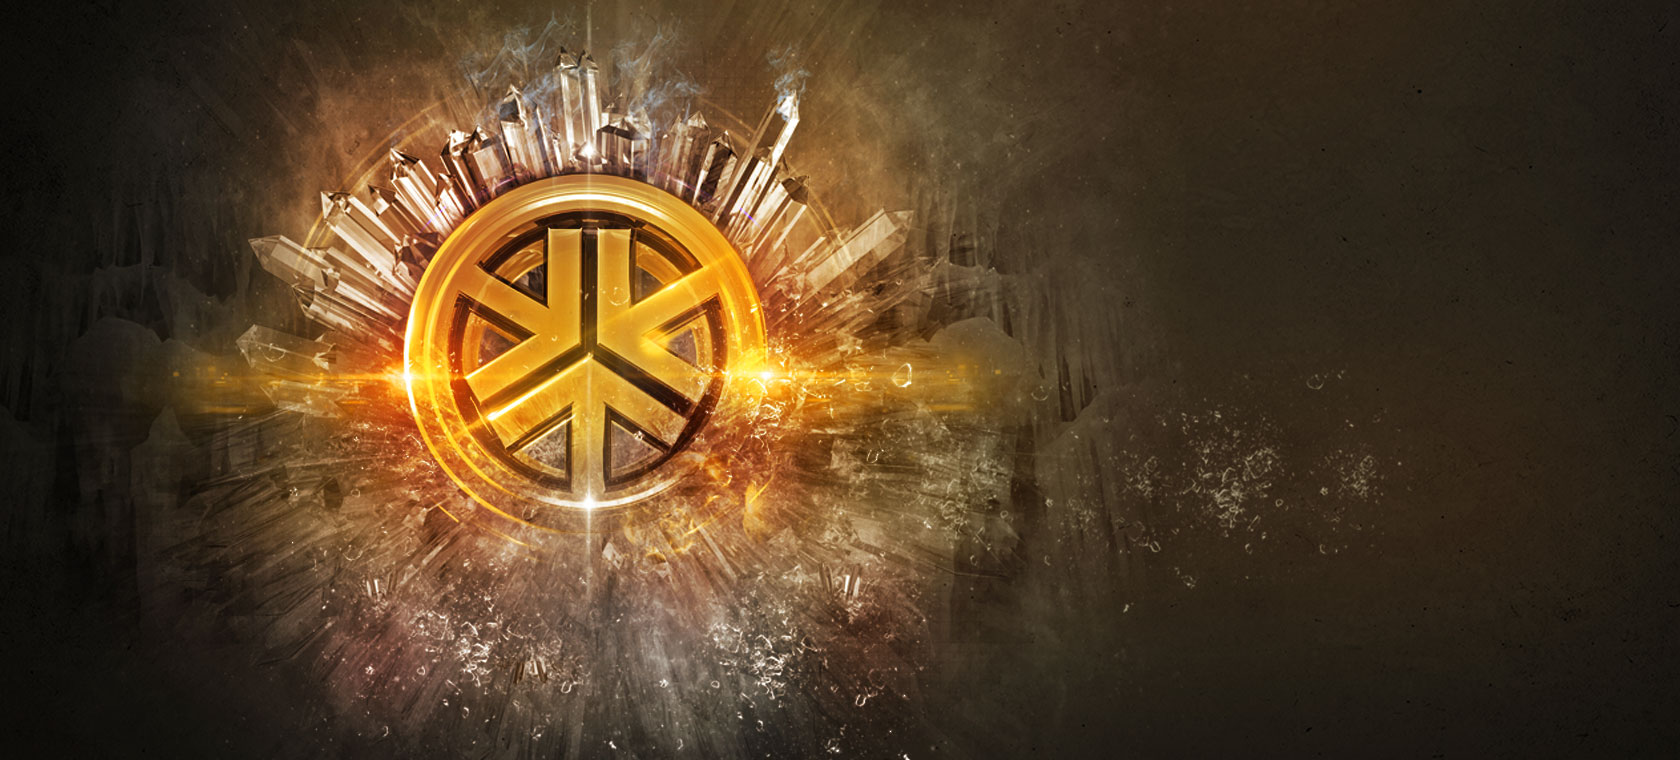
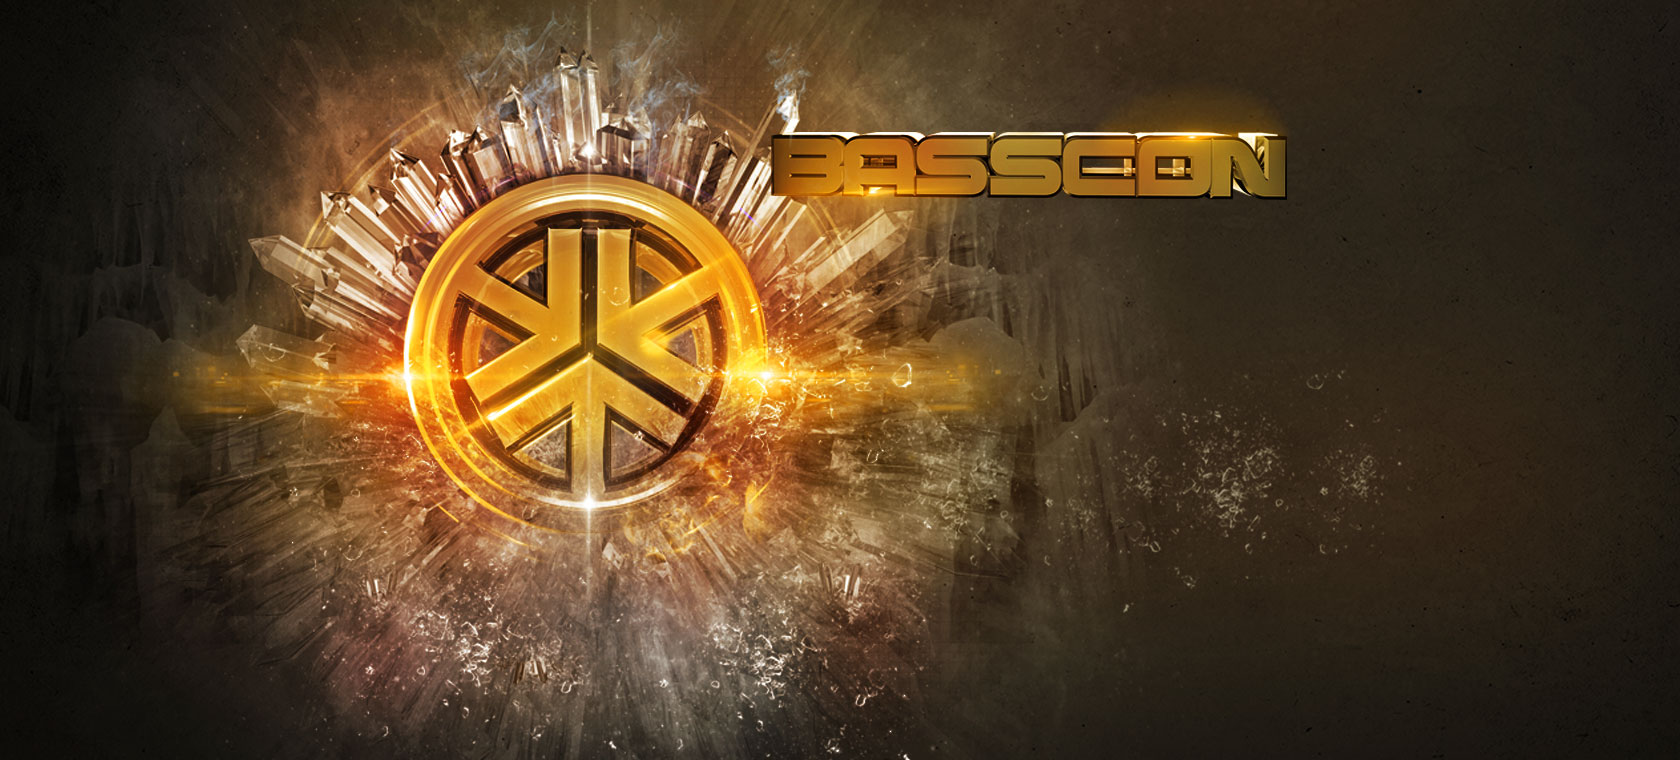
Old site placeholder

Changed region(s): [[0.4333, 0.1211, 0.7738, 0.3026]]

diff --git a/index.html b/index.html
@@ -1,33 +1,25 @@
-<!DOCTYPE html>
-<html>
-    <head>
-        <meta charset="utf-8">
-        <meta http-equiv="X-UA-Compatible" content="IE=edge">
-        <title>Basscon Massive</title>
-        <meta name="description" content="">
-        <meta name="viewport" content="width=device-width, initial-scale=1, maximum-scale=1">
-        <link rel="stylesheet" href="/css/main.min.css">
-    </head>
-    <body>
-    	<div id="splash">
-	    	<div id="right">
-	    		<a href="http://www.insomniac.com" target="_blank" id="insomniac"><img src="/images/insomniac.png" alt="Insomniac"/></a>
-	    		<span id="subtitle">Back to the Basics</span>
-		    	<h1 id="logo">Basscon</h1>
-		    	
-		    	
-		    	<iframe id="video" width="415" height="233" src="//www.youtube.com/embed/AX3GZ0CU5JM" frameborder="0" allowfullscreen></iframe>
-		    	
-		    	<div id="tickets" class="responsive-container">
-		    		<a href="" class="responsive-content">Purchase Tickets</a>
-		    	</div>
-	    	</div>
-    	</div>
-    
-		<script>
-			(function(i,s,o,g,r,a,m){i['GoogleAnalyticsObject']=r;i[r]=i[r]||function(){(i[r].q=i[r].q||[]).push(arguments)},i[r].l=1*new Date();a=s.createElement(o),m=s.getElementsByTagName(o)[0];a.async=1;a.src=g;m.parentNode.insertBefore(a,m)})(window,document,'script','//www.google-analytics.com/analytics.js','ga');
-			ga('create', 'UA-47843901-3', 'bassconmassive.com');
-			ga('send', 'pageview');
-		</script>
-    </body>
+<!doctype html>
+<!--[if lt IE 7]><html class="lt-ie10 lt-ie9 lt-ie8 lt-ie7" lang="en-US"><![endif]-->
+<!--[if IE 7]><html class="lt-ie10 lt-ie9 lt-ie8 ie7" lang="en-US"><![endif]-->
+<!--[if IE 8]><html class="lt-ie10 lt-ie9 ie8" lang="en-US"><![endif]-->
+<!--[if IE 9]><html class="lt-ie10 ie9" lang="en-US"><![endif]-->
+<!--[if gt IE 9]><!--><html lang="en-US"><!--<![endif]-->
+<head>
+<meta charset="utf-8" />
+<meta http-equiv="X-UA-Compatible" content="IE=edge,chrome=1" />
+<meta name="viewport" content="width=device-width, initial-scale=1">
+<meta name="format-detection" content="telephone=no" />
+<title>Basscon Massive - Saturday March 29th 2014 - Presented by Insomniac Events</title>
+<meta property="og:url" content="http://www.bassconmassive.com/" />
+<meta property="og:title" content="Basscon Massive - Saturday March 29th 2014 - Presented by Insomniac Events" />
+<meta property="og:description" content="Basscon Massive - Saturday March 29th 2014 - Presented by Insomniac Events" />
+<meta property="og:site_name" content="Basscon Massive" />
+<meta property="og:image" content="_old/fb.jpg" />
+<meta property="og:type" content="website" />
+<!--[if IE]><script type="text/javascript" src="http://html5shiv.googlecode.com/svn/trunk/html5.js"></script><![endif]-->
+<link rel="stylesheet" href="_old/style.css" />
+<link rel="shortcut icon" type="image/x-icon" href="_old/favicon.ico" />
+<body>
+<div> <a href="http://www.flavorus.com/event/BASSCON/226933" class="btn" target="_blank"></a> </div>
+</body>
 </html>

diff --git a/css/main.min.css b/css/main.min.css
@@ -1,1 +1,1 @@
-body{background:#fff url(/images/bg.jpg) no-repeat center top;font-family:sans-serif;margin:0}.responsive-container{position:relative}.responsive-content{width:100%;height:100%;position:absolute;left:0;right:0;top:0;bottom:0}#splash{width:900px;height:600px;margin:0 auto;display:block}#right{float:right;width:516px;height:600px;display:block;margin:0 auto;position:relative;text-align:center;margin-top:50px}#insomniac,#logo,#tickets{display:block}#insomniac{font-size:0;width:20.93%;margin:0 auto}#subtitle{color:#eda711;text-transform:uppercase;padding:10px 0;display:block;font-size:17px}#logo{background:transparent url(/images/logo.png) no-repeat 0 0;width:100%;height:68px;font-size:0}#video{margin:25px auto}#tickets{background:transparent url(/images/tickets.jpg) no-repeat 0 0;width:60.47%;padding-bottom:8%;font-size:0;margin:0 auto}
+body{background:#000 url(/images/bg.jpg) no-repeat center top;font-family:sans-serif;margin:0}a{outline:0}.responsive-container{position:relative}.responsive-content{width:100%;height:100%;position:absolute;left:0;right:0;top:0;bottom:0}#splash{width:900px;height:600px;margin:0 auto;display:block}#right{float:right;width:516px;height:600px;display:block;margin:0 auto;position:relative;text-align:center;margin-top:50px}#insomniac,#logo,#tickets{display:block}#insomniac{font-size:0;width:20.93%;margin:0 auto}#subtitle{color:#eda711;text-transform:uppercase;padding:10px 0;display:block;font-size:17px}#video{margin:100px auto 25px}#date{font-size:35px;color:#fff;text-transform:uppercase;font-weight:700}#tickets{background:transparent url(/images/tickets.png) no-repeat left top;width:77.33%;padding-bottom:17.5%;font-size:0;margin:0 auto;position:relative}#tickets:hover{background-position:left -105px}

diff --git a/index-2.html b/index-2.html
@@ -1,0 +1,28 @@
+<!DOCTYPE html>
+<html>
+    <head>
+        <meta charset="utf-8">
+        <meta http-equiv="X-UA-Compatible" content="IE=edge">
+        <title>Basscon Massive</title>
+        <meta name="description" content="">
+        <meta name="viewport" content="width=device-width, initial-scale=1, maximum-scale=1">
+        <link rel="stylesheet" href="/css/main.min.css">
+    </head>
+    <body>
+    	<div id="splash">
+	    	<div id="right">
+	    		<a href="http://www.insomniac.com" target="_blank" id="insomniac"><img src="/images/insomniac.png" alt="Insomniac"/></a>
+	    		<span id="subtitle">Back to the Basics</span>
+		    	<iframe id="video" width="415" height="233" src="//www.youtube.com/embed/AX3GZ0CU5JM" frameborder="0" allowfullscreen></iframe>
+		    	<span id="date">Saturday<br/>March 29, 2014</span>
+		    	<a id="tickets" href="http://www.flavorus.com/event/BASSCON/226933">Purchase Tickets</a>
+	    	</div>
+    	</div>
+    
+		<script>
+			(function(i,s,o,g,r,a,m){i['GoogleAnalyticsObject']=r;i[r]=i[r]||function(){(i[r].q=i[r].q||[]).push(arguments)},i[r].l=1*new Date();a=s.createElement(o),m=s.getElementsByTagName(o)[0];a.async=1;a.src=g;m.parentNode.insertBefore(a,m)})(window,document,'script','//www.google-analytics.com/analytics.js','ga');
+			ga('create', 'UA-47843901-3', 'bassconmassive.com');
+			ga('send', 'pageview');
+		</script>
+    </body>
+</html>

diff --git a/css/build/main.css b/css/build/main.css
@@ -1,7 +1,11 @@
 body {
-	background: #fff url(/images/bg.jpg) no-repeat center top;
+	background: #000 url(/images/bg.jpg) no-repeat center top;
 	font-family: sans-serif;
 	margin: 0;
+}
+
+a {
+	outline: none;
 }
 
 .responsive-container {
@@ -56,21 +60,26 @@ body {
 	font-size: 17px;
 }
 
-#logo {
-	background: transparent url(/images/logo.png) no-repeat 0 0;
-	width: 100%;
-	height: 68px;
-	font-size: 0px;
+#video {
+	margin: 100px auto 25px;
 }
 
-#video {
-	margin: 25px auto;
+#date {
+	font-size: 35px;
+	color: #fff;
+	text-transform: uppercase;
+	font-weight: bold;
 }
 
 #tickets {
-	background: transparent url(/images/tickets.jpg) no-repeat 0 0;
-	width: 60.47%;
-	padding-bottom: 8%;
+	background: transparent url(/images/tickets.png) no-repeat left top;
+	width: 77.33%;
+	padding-bottom: 17.5%;
 	font-size: 0px;
 	margin: 0 auto;
+	position: relative;
+}
+
+#tickets:hover {
+	background-position: left -105px;
 }

diff --git a/_old/style.css b/_old/style.css
@@ -1,0 +1,21 @@
+
+body {
+	background: url(bck.jpg) #251e27 no-repeat top;
+	margin-left: 0px;
+	margin-top: 0px;
+	margin-right: 0px;
+	margin-bottom: 0px;
+	background-color: #000000;
+}
+div { width:450px; height:1100px; margin:0 auto; text-align:center; overflow:hidden;}
+a.btn {
+	background:url(btn.png) no-repeat bottom;
+	margin:0 auto;
+	margin-top:498px;
+	display:block;
+	width:278px;
+	height:50px;
+}
+a.btn:hover {
+	background-position:top;
+}
